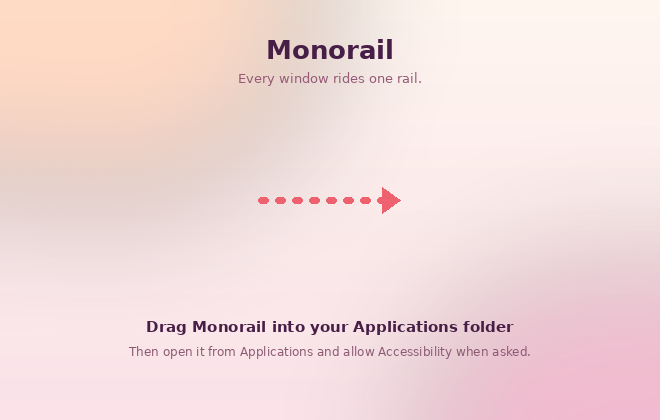
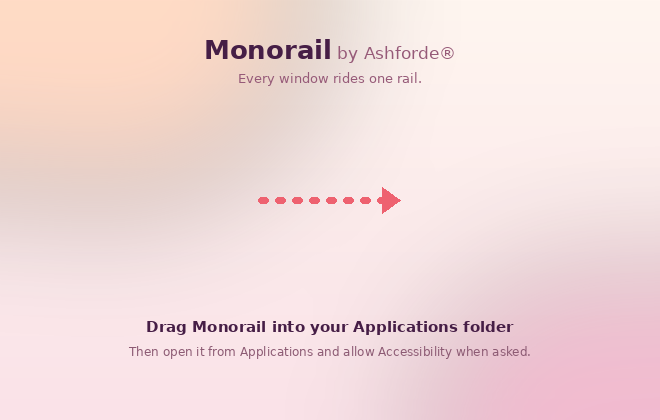
Brand the app, installer and README as Monorail by Ashforde®
The name shows in the About pane, the menu, window titles, the welcome
tour, the menu bar slider, the overview, the installer window and its
volume name, the README banner and badges, and the app's copyright
string. The app itself is still Monorail.app, so updates and
Accessibility permission carry on as before.

Changed region(s): [[0.303, 0.0929, 0.697, 0.1548]]

diff --git a/Sources/Monorail/AppDelegate.swift b/Sources/Monorail/AppDelegate.swift
@@ -553,6 +553,7 @@ final class AppDelegate: NSObject, NSApplicationDelegate, NSMenuDelegate {
         statusItem.button?.target = self
         statusItem.button?.action = #selector(statusItemClicked(_:))
         statusItem.button?.sendAction(on: [.leftMouseUp, .rightMouseUp])
+        statusItem.button?.toolTip = Brand.full
         updateStatusItem()
     }
 
@@ -678,7 +679,7 @@ final class AppDelegate: NSObject, NSApplicationDelegate, NSMenuDelegate {
         menu.addItem(shortcutsMenu())
         menu.addItem(item("Welcome Tour…", #selector(showWelcomeFromMenu)))
         menu.addItem(item("Check for Updates…", #selector(checkForUpdates)))
-        menu.addItem(item("About Monorail", #selector(showAbout)))
+        menu.addItem(item("About \(Brand.full)", #selector(showAbout)))
         menu.addItem(.separator())
         menu.addItem(item("Quit Monorail", #selector(quit), key: "q"))
     }
@@ -959,7 +960,7 @@ final class AppDelegate: NSObject, NSApplicationDelegate, NSMenuDelegate {
                 setPaused: { [weak self] in self?.engine.setPaused($0) }
             )
             let window = NSWindow(contentViewController: NSHostingController(rootView: view))
-            window.title = "Monorail Settings"
+            window.title = "\(Brand.full) — Settings"
             window.styleMask = [.titled, .closable, .miniaturizable]
             window.isReleasedWhenClosed = false
             window.center()
@@ -976,7 +977,7 @@ final class AppDelegate: NSObject, NSApplicationDelegate, NSMenuDelegate {
                 self.welcomeWindow?.close()
             }
             let window = NSWindow(contentViewController: NSHostingController(rootView: view))
-            window.title = "Welcome to Monorail"
+            window.title = "Welcome to \(Brand.full)"
             window.styleMask = [.titled, .closable]
             window.isReleasedWhenClosed = false
             window.center()

diff --git a/Sources/Monorail/SettingsView.swift b/Sources/Monorail/SettingsView.swift
@@ -1185,7 +1185,10 @@ private struct AboutPane: View {
             Image(nsImage: NSApp.applicationIconImage)
                 .resizable()
                 .frame(width: 96, height: 96)
-            Text("Monorail").font(.largeTitle).fontWeight(.semibold)
+            VStack(spacing: 2) {
+                Text(Brand.name).font(.largeTitle).fontWeight(.semibold)
+                Text(Brand.maker).font(.title3).foregroundStyle(.secondary)
+            }
             Text("Version \(version)").foregroundStyle(.secondary)
             Text("A scrolling window manager for macOS. Every window keeps its size on one endless strip.")
                 .multilineTextAlignment(.center)
@@ -1194,7 +1197,7 @@ private struct AboutPane: View {
                 Link("Website & source", destination: URL(string: "https://github.com/ashfordeOU/monorail")!)
                 Link("Report an issue", destination: URL(string: "https://github.com/ashfordeOU/monorail/issues")!)
             }
-            Text("© Ashforde OÜ · Licensed under the GNU AGPL v3.0")
+            Text("\(Brand.full) · © Ashforde OÜ · Licensed under the GNU AGPL v3.0")
                 .font(.footnote).foregroundStyle(.secondary)
             Button("Reveal settings file") {
                 NSWorkspace.shared.activateFileViewerSelecting([SettingsStore.fileURL])

diff --git a/Sources/Monorail/Overview.swift b/Sources/Monorail/Overview.swift
@@ -145,7 +145,11 @@ struct OverviewView: View {
     private var header: some View {
         HStack(alignment: .center, spacing: 12) {
             VStack(alignment: .leading, spacing: 6) {
-                Text("Overview").font(.system(size: 32, weight: .bold, design: .rounded)).foregroundStyle(.white)
+                HStack(alignment: .firstTextBaseline, spacing: 12) {
+                    Text("Overview").font(.system(size: 32, weight: .bold, design: .rounded)).foregroundStyle(.white)
+                    Text(Brand.full).font(.system(size: 14, weight: .semibold, design: .rounded))
+                        .foregroundStyle(.white.opacity(0.55))
+                }
                 Text("Click or use the arrow keys and return to jump · drag a window onto a slide to pair it, between slides for its own, or onto the bin to close it · drag ≡ to reorder · esc closes")
                     .font(.callout).foregroundStyle(.white.opacity(0.65))
                     .lineLimit(2)

diff --git a/Sources/Monorail/WelcomeView.swift b/Sources/Monorail/WelcomeView.swift
@@ -67,7 +67,10 @@ struct WelcomeView: View {
             HStack(spacing: 14) {
                 Image(nsImage: NSApp.applicationIconImage).resizable().frame(width: 64, height: 64)
                 VStack(alignment: .leading, spacing: 4) {
-                    Text("Welcome to Monorail").font(.title).fontWeight(.semibold)
+                    HStack(alignment: .firstTextBaseline, spacing: 8) {
+                        Text("Welcome to \(Brand.name)").font(.title).fontWeight(.semibold)
+                        Text(Brand.maker).font(.title3).foregroundStyle(.secondary)
+                    }
                     Text("Your windows sit side by side on one endless strip. Nothing shrinks, nothing overlaps.")
                         .foregroundStyle(.secondary)
                 }

diff --git a/Sources/Monorail/SliderBar.swift b/Sources/Monorail/SliderBar.swift
@@ -968,7 +968,10 @@ private struct SliderPopoverView: View {
     var body: some View {
         VStack(alignment: .leading, spacing: 12) {
             HStack(spacing: 10) {
-                Text("Monorail").font(.headline)
+                HStack(alignment: .firstTextBaseline, spacing: 4) {
+                    Text(Brand.name).font(.headline)
+                    Text(Brand.maker).font(.caption).foregroundStyle(.secondary)
+                }
                 if let map = model.map {
                     Text(map.workspaceCount > 1 ? "Workspace \(map.workspace + 1) · \(map.tiles.count) slides"
                                                 : "\(map.tiles.count) slides")

diff --git a/Sources/Monorail/Brand.swift b/Sources/Monorail/Brand.swift
@@ -1,0 +1,11 @@
+#if os(macOS)
+/// How the app is named wherever people see it.
+enum Brand {
+    /// The app's own name (its bundle, menus like "Quit Monorail").
+    static let name = "Monorail"
+    /// The maker, with the registered mark.
+    static let maker = "by Ashforde®"
+    /// The full brand: "Monorail by Ashforde®".
+    static let full = "\(name) \(maker)"
+}
+#endif

diff --git a/scripts/render-readme-art.py b/scripts/render-readme-art.py
@@ -86,7 +86,7 @@ def banner():
                   f'calcMode="spline" keyTimes="0;0.2;0.45;0.7;1" '
                   f'keySplines="0.45 0 0.2 1;0.45 0 0.2 1;0.45 0 0.2 1;0.45 0 0.2 1" '
                   f'values="0 0;{travel * 0.35 * scale:.1f} 0;{travel * scale:.1f} 0;{travel * 0.6 * scale:.1f} 0;0 0"/>')
-    return f'''<svg xmlns="http://www.w3.org/2000/svg" viewBox="0 0 {W} {H}" width="{W}" height="{H}" role="img" aria-label="Monorail: every window rides one rail">
+    return f'''<svg xmlns="http://www.w3.org/2000/svg" viewBox="0 0 {W} {H}" width="{W}" height="{H}" role="img" aria-label="Monorail by Ashforde®: every window rides one rail">
 <defs>
   <linearGradient id="bg" x1="0" y1="0" x2="1" y2="1">
     <stop offset="0" stop-color="{CORAL}"/><stop offset="0.5" stop-color="{PINK}"/><stop offset="1" stop-color="{PLUM}"/>
@@ -114,7 +114,7 @@ def banner():
   {''.join(tiles)}
   <g>{frame_anim}<rect x="{bx + 8}" y="{by + 5}" width="{frame_w:.1f}" height="30" rx="8" fill="#fff" fill-opacity="0.15" stroke="#fff" stroke-width="2.5"/></g>
   {m_icon(70, 96, 92)}
-  <text x="70" y="262" font-family="{FONT}" font-size="76" font-weight="800" fill="#fff" letter-spacing="-1.5">Monorail</text>
+  <text x="70" y="262" font-family="{FONT}" font-size="76" font-weight="800" fill="#fff" letter-spacing="-1.5">Monorail<tspan dx="16" font-size="30" font-weight="600" letter-spacing="0" opacity="0.85">by Ashforde®</tspan></text>
   <text x="72" y="306" font-family="{FONT}" font-size="27" font-weight="600" fill="#fff" opacity="0.95">Every window rides one rail.</text>
   <text x="72" y="344" font-family="{FONT}" font-size="19" fill="#fff" opacity="0.8">A scrolling window manager for macOS.</text>
   <text x="72" y="372" font-family="{FONT}" font-size="19" fill="#fff" opacity="0.8">Free and open source.</text>

diff --git a/scripts/render-dmg-background.py b/scripts/render-dmg-background.py
@@ -34,10 +34,15 @@ def render(scale):
 
     d = ImageDraw.Draw(img)
     # Title.
-    title = "Monorail"
+    title, maker = "Monorail", " by Ashforde®"
     f = font(s(26), bold=True)
+    fm = font(s(17))
     tw = d.textlength(title, font=f)
-    d.text(((s(W) - tw) / 2, s(34)), title, fill=(70, 30, 70, 255), font=f)
+    mw = d.textlength(maker, font=fm)
+    x = (s(W) - tw - mw) / 2
+    d.text((x, s(34)), title, fill=(70, 30, 70, 255), font=f)
+    # The maker sits on the title's baseline.
+    d.text((x + tw, s(34) + f.getmetrics()[0] - fm.getmetrics()[0]), maker, fill=(150, 90, 120, 255), font=fm)
     sub = "Every window rides one rail."
     f2 = font(s(13))
     sw = d.textlength(sub, font=f2)
@@ -84,7 +89,7 @@ def installer_preview():
     for i, color in enumerate([(255, 95, 87), (254, 188, 46), (40, 200, 64)]):
         cx, cy, r = (20 + i * 20) * s, 14 * s, 6 * s
         d.ellipse((cx - r, cy - r, cx + r, cy + r), fill=color + (255,))
-    label = "Monorail"
+    label = "Monorail by Ashforde®"
     f = font(13 * s, bold=True)
     d.text(((W * s - d.textlength(label, font=f)) / 2, 6 * s), label, fill=(60, 50, 60, 255), font=f)
     icon = Image.open(os.path.join(ROOT, "assets", "icon.png")).convert("RGBA").resize((128 * s, 128 * s), Image.LANCZOS)

diff --git a/README.md b/README.md
@@ -1,10 +1,10 @@
 <div align="center">
 
-<img src="assets/readme/banner.svg" alt="Monorail — every window rides one rail" width="100%">
+<img src="assets/readme/banner.svg" alt="Monorail by Ashforde® — every window rides one rail" width="100%">
 
 <br>
 
-[![Download Monorail](https://img.shields.io/badge/Download-Monorail%20for%20Mac-F66270?style=for-the-badge&logo=apple&logoColor=white)](https://github.com/ashfordeOU/monorail/releases/latest)
+[![Download Monorail by Ashforde®](https://img.shields.io/badge/Download-Monorail%20by%20Ashforde%C2%AE-F66270?style=for-the-badge&logo=apple&logoColor=white)](https://github.com/ashfordeOU/monorail/releases/latest)
 
 ![macOS 13+](https://img.shields.io/badge/macOS-13%2B-2A1430?logo=apple)
 ![Universal](https://img.shields.io/badge/Apple%20silicon%20%2B%20Intel-universal-D63A80)
@@ -16,6 +16,8 @@
 </div>
 
 ---
+
+**Monorail by Ashforde®** is a scrolling window manager for your Mac.
 
 Grid tilers squeeze every new window into the space that's already there.
 **Monorail does the opposite.** Each window is a column on a horizontal strip
@@ -677,7 +679,8 @@ Bug reports and pull requests are welcome. See [CONTRIBUTING.md](CONTRIBUTING.md
 
 ## License
 
-Copyright © 2026 Ashforde OÜ.
+Monorail by Ashforde®. Copyright © 2026 Ashforde OÜ. Ashforde® is a
+registered trademark of Ashforde OÜ.
 
 Monorail is free software: you can redistribute it and/or modify it under the
 terms of the [GNU Affero General Public License v3.0](LICENSE) as published by

diff --git a/CHANGELOG.md b/CHANGELOG.md
@@ -1,6 +1,6 @@
 # Changelog
 
-All notable changes to MacSlider are documented here.
+All notable changes to Monorail by Ashforde® are documented here.
 The format follows [Keep a Changelog](https://keepachangelog.com/en/1.1.0/),
 and versions follow [Semantic Versioning](https://semver.org/).
 
